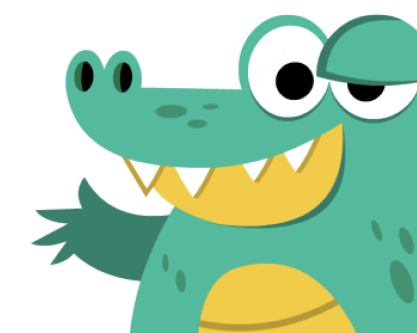
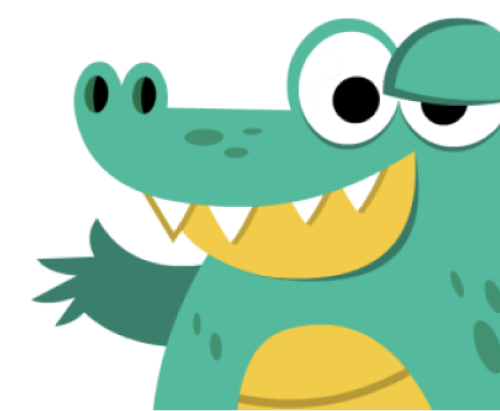
Crear estilos de landing section
Nuevos:
- CSS variable para altura del landing section
- Estilos de clase u-wrapper y u-icon
- Imagen de Cody en landing section
- Media query simple para hacer un poco responsiva la landing section

Arreglos:
- Cambio de fuente en otros navegadores
- Z-index de 9999 al navbar para que se mantenga sobre todo

diff --git a/public/css/style.css b/public/css/style.css
@@ -4,6 +4,7 @@
   --padding: 10px;
   --navbar-height: calc(40px + (var(--padding) * 2));
   --wrapper-width: calc(100vw - (var(--padding) * 2));
+  --landing-height: calc(100vh - var(--padding) - 12.5vh - var(--navbar-height));
 }
 
 * {
@@ -18,6 +19,15 @@ body {
   margin-bottom: var(--navbar-height);
 }
 
+.u-wrapper {
+  width: var(--wrapper-width);
+  padding: var(--padding);
+}
+
+.u-icon {
+  width: 40px;
+}
+
 /* NAVBAR */
 .Nav {
   width: var(--wrapper-width);
@@ -27,6 +37,7 @@ body {
   display: flex;
   justify-content: space-around;
   align-items: center;
+  z-index: 9999;
 
   position: fixed;
   bottom: 0;
@@ -47,10 +58,7 @@ body {
   display: none;
 }
 
-.u-icon {
-  width: 40px;
-}
-
+/* NAVBAR ACTIVE OPTION */
 .is-active span {
   display: inline-block;
 }
@@ -59,20 +67,84 @@ body {
   width: 25px;
 }
 
+/* LANDING SECTION */
+.Landing {
+  height: var(--landing-height);
+  padding-top: 12.5vh;
+
+  background: linear-gradient(150deg, #6E57FC 0%, #8E2DE2 100%);
+  color: white;
+}
+
+.Landing-title {
+  font-family: 'Fira Code', monospace;
+  font-weight: 700;
+  text-align: center;
+  font-size: 2em;
+
+  text-shadow: 0px 4px 4px rgba(0, 0, 0, 0.25);
+}
+
+.Landing .u-text-secondary {
+  text-align: center;
+  margin: 10vh auto;
+}
+
+.Landing-paragraph {
+  padding-right: 20vw;
+  font-size: 1.5em;
+}
+
+.Landing-img {
+  position: absolute;
+  bottom: var(--navbar-height);
+  right: 0;
+
+  width: 150px;
+  height: 155px; 
+
+  aspect-ratio: 30 / 31;
+  max-height: 100%;
+  max-width: 100%;
+  object-fit: contain;
+  object-position: center bottom;
+}
+
+@media screen and (min-width: 425px) {
+  .Landing {
+    display: flex;
+    flex-direction: column;
+    justify-content: center;
+    align-items: center;
+    padding-top: 0;
+    height: calc(100vh - var(--navbar-height) - var(--padding));
+  }
+
+  .Landing-paragraph {
+    text-align: center;
+    padding-right: 0;
+    width: var(--wrapper-width);
+  }
+}
+
 /* ADDED THIS JUST FOR HAVING REAL FULL VIEWPORT WIDTH */
-img {
-  width: 80vw;
+.Fotos .Foto {
+  width: 20vw;
 }
 
 iframe {
-  width: 100vw;
+  width: 50vw;
 }
 
 .Curso-img {
-  width: 80vw;
+  width: 50vw;
 }
 
-/* ------------------ */
+.Cursos {
+  width: calc(var(--wrapper-width) - (var(--padding) * 2))
+}
+
+/*
 
 main{
   text-align: center;
@@ -105,3 +177,5 @@ ul li::marker {
 ol li{
   text-align: left;
 }
+
+*/

diff --git a/public/index.html b/public/index.html
@@ -24,10 +24,12 @@
       </a>
     </nav>
 
-    <h1 class="Header-title">Estas son mis Vacaciones</h1>
-    <p class"u-italic">Soy Cody, un aspirante a Dev</p>
-    <p class="Header-paragraph">En 2019, organicé un viaje para desestresarme del código, y en esta página quiero compartirlo contigo.</p>
-    <img class"Header-img"src="images/corner_cody.png">
+    <section class="Landing u-wrapper">
+      <h1 class="Landing-title">Estas son mis Vacaciones</h1>
+      <p class="u-text-secondary"><i>Soy Cody, un aspirante a Dev</i></p>
+      <p class="Landing-paragraph">En 2019, organicé un viaje para desestresarme del código, y en esta página quiero compartirlo contigo.</p>
+      <img class="Landing-img" src="./images/corner_cody.png">
+    </section>
   </header>
 
   <main>

diff --git a/public/css/reset.css b/public/css/reset.css
@@ -20,7 +20,6 @@ time, mark, audio, video {
 	padding: 0;
 	border: 0;
 	font-size: 100%;
-	font: inherit;
 	vertical-align: baseline;
 }
 /* HTML5 display-role reset for older browsers */
